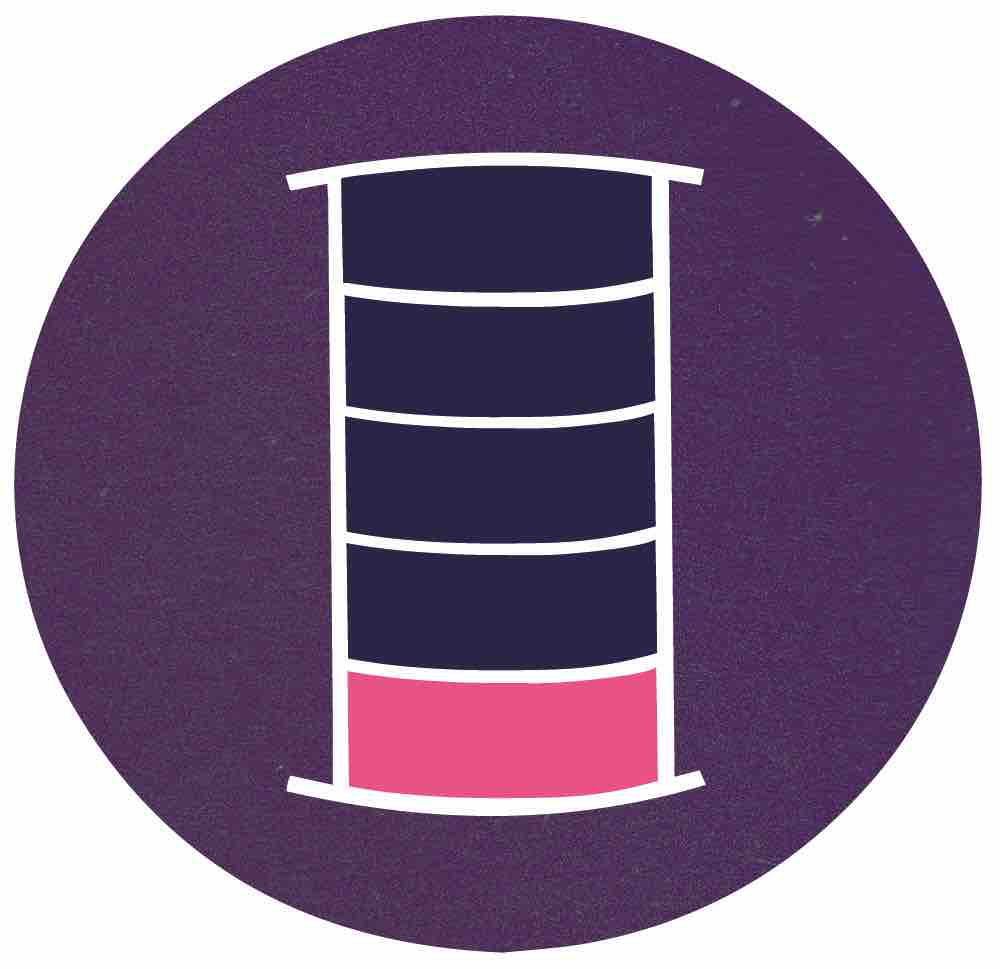
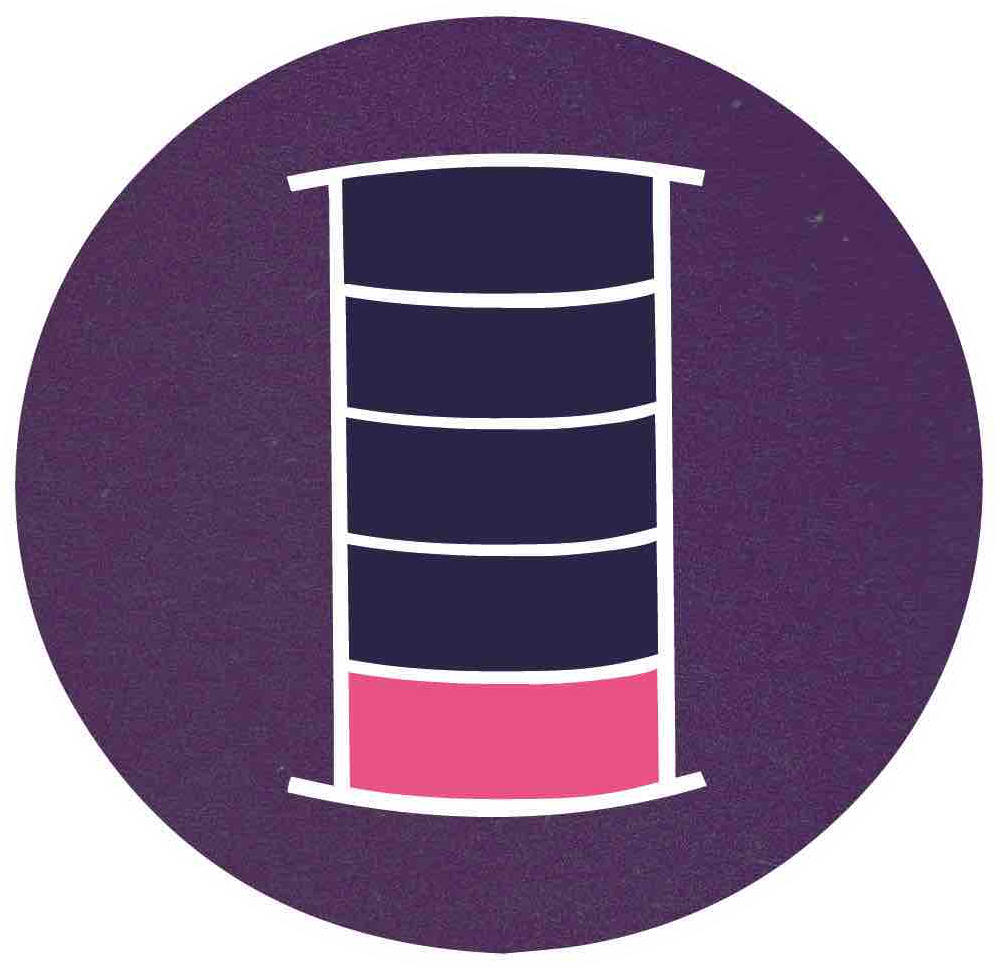
added transparent beacon

diff --git a/index.html b/index.html
@@ -454,6 +454,10 @@ name {
   font-size: 4vw;
 }
 
+.beacon {
+ width:20vw
+}
+
 
 
 
@@ -1669,9 +1673,13 @@ $(document.head).find('#style-ui-bar').remove();
 
       &lt;button&gt;[[FISHY SPAGHETTI]]&lt;/button&gt; &lt;button&gt;[[COLD CUSTARD]]&lt;/button&gt;
       &lt;/messageboxlarge&gt;</tw-passagedata><tw-passagedata pid="139" name="platform8baudio" tags="" position="2197.6666666666674,1066.6666666666665" size="100,100">&lt;audio id=&quot;player&quot; src=&quot;https://uca-coney-dev.netlify.app/assets/audio/now-another-test.mp3&quot; autoplay
-      &gt;&lt;/audio&gt;</tw-passagedata><tw-passagedata pid="140" name="beacon1" tags="green" position="537,506" size="100,100">&lt;messagebox&gt;&lt;div
-      class=&quot;animated
-      rotateIn&quot;&gt;[img[&quot;./assets/img/UCA-51&quot;]]&lt;/div&gt;&lt;/messagebox&gt;
+      &gt;&lt;/audio&gt;</tw-passagedata><tw-passagedata pid="140" name="beacon1" tags="green" position="537,506" size="100,100">&lt;messagebox&gt;
+  &lt;div id=&quot;beacon&quot;&gt;&lt;img class=&quot;beacon&quot;  src=&quot;https://uca-coney-dev.netlify.app/assets/img/UCA-51.png&quot;&gt;&lt;/div&gt;
+&lt;&lt;timed 0.5s&gt;&gt;&lt;&lt;replace &quot;#beacon&quot;&gt;&gt;&lt;img class=&quot;beacon&quot; src=&quot;https://uca-coney-dev.netlify.app/assets/img/UCA-56.png&quot;&gt;&lt;&lt;/replace&gt;&gt;
+&lt;&lt;/timed&gt;&gt;
+      &lt;/messagebox&gt;
+
+       /* &lt;&lt;next 2s&gt;&gt;&lt;&lt;replace &quot;#message&quot;&gt;&gt;Uploading&lt;&lt;/replace&gt;&gt;\ */
       /* &lt;messagebox&gt;
       &lt;div class=&quot;animated
       fadeInLeftBig&quot;&gt;[img[http://remote.co.com/UCA/images/undercover.png]]&lt;/div&gt;&lt;div
